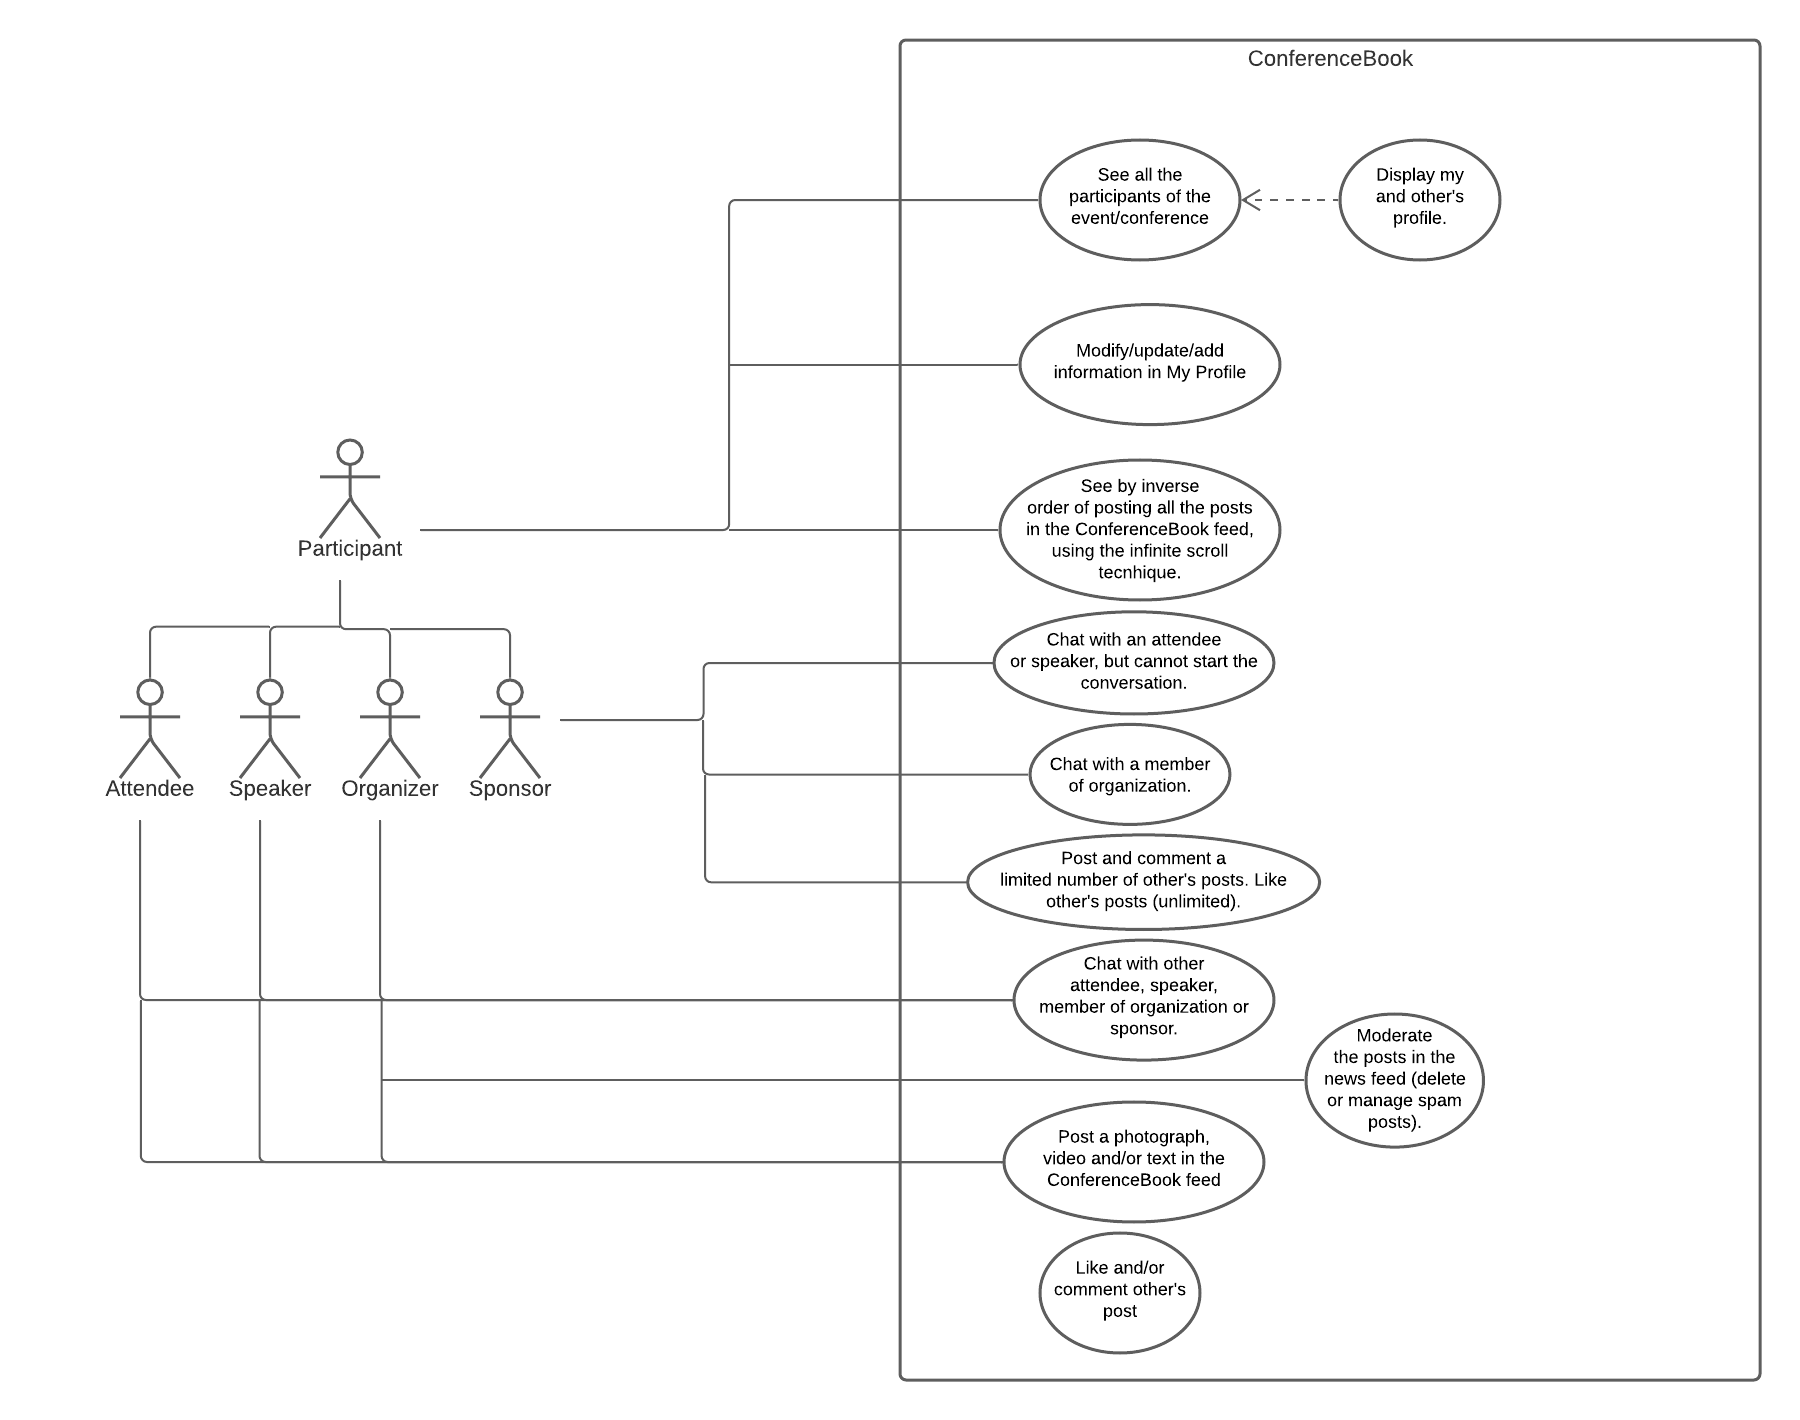
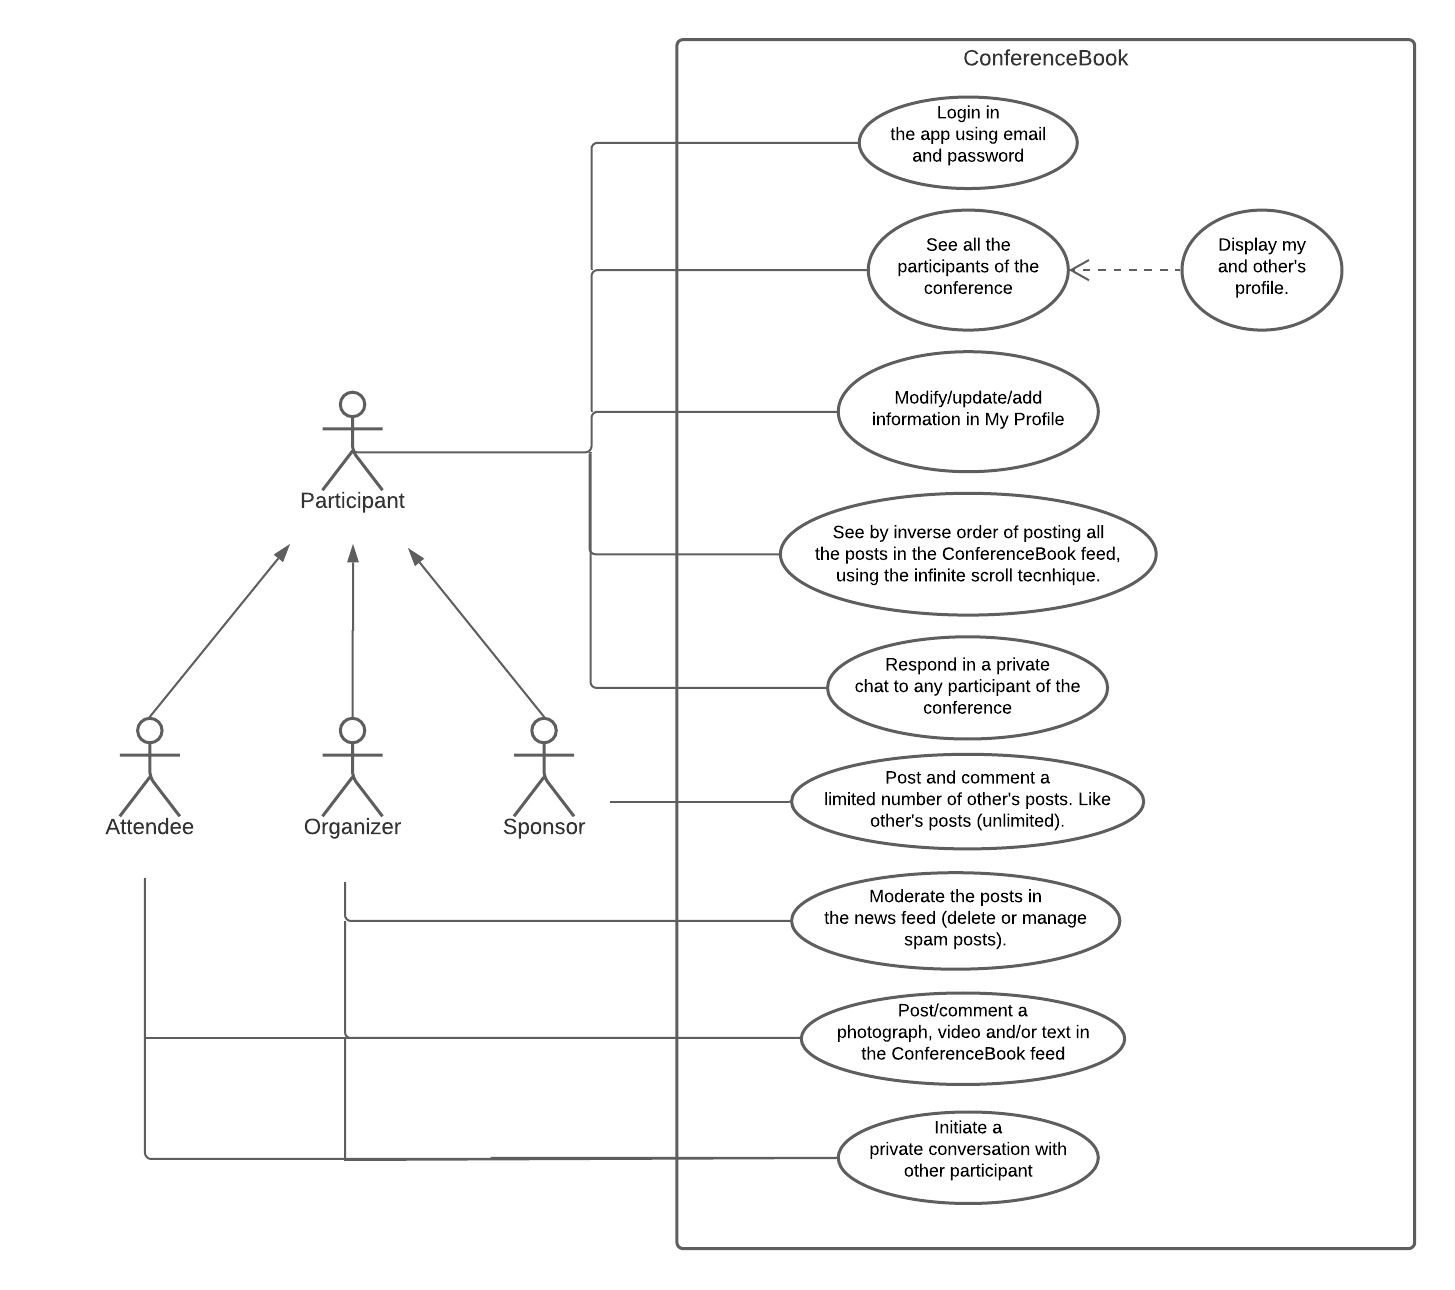
final version of use case diagram & user stories

diff --git a/docs/Development Report.md b/docs/Development Report.md
@@ -71,6 +71,8 @@ Start by contextualizing your module, describing the main concepts, terms, roles
 
 ### Use case diagram 
 
+![](https://i.imgur.com/6NKFsY4.png)
+
 <!---Create a use-case diagram in UML with all high-level use cases possibly addressed by your module.
 
 Give each use case a concise, results-oriented name. Use cases should reflect the tasks the user needs to be able to accomplish using the system. Include an action verb and a noun. 
@@ -108,27 +110,32 @@ For each user story you should write also the acceptance tests (textually in Ghe
 **Value and effort**.
 At the end, it is good to add a rough indication of the value of the user story to the customers (e.g. [MoSCoW](https://en.wikipedia.org/wiki/MoSCoW_method) method) and the team should add an estimation of the effort to implement it, for example, using t-shirt sizes (XS, S, M, L, XL). -->
 
+#### Participants
 
-#### Attendees and Speakers (hereby mentioned as participants)
+General role, including every participant in the conference, be it attendee, speaker, organizer or sponsor.
 
-This two roles will, in general, have the same actions, although each role will be explicitly identified for each conference.
-
-- As a conference participant, I want to chat in private with other participants, so that I can continue conversations that may have started elsewhere.
-
-- As a conference participant, I want to share my experience and express my opinion about the conference with all the other participants, so that conference networking becomes easier.
-    - As a conference participant, I want to post photos, videos and opinions in a way that everyone in the event can see it, so that I share my experience with all the participants. 
-    - As a conference participant, I want to comment on other participant's posts so that we can discuss meaningful topics.
+- As a conference participant, I want to login in the app using my email and password.
 
 - As a conference participant, I want to keep a personal profile so that other participants can know my basic information, according to what I provided.
-    - As a conference participant, I want to choose which information is displayed on my profile, namely small bio, soft and technical skills, previous experience and education so that I choose what to show other participants.
+    - As a conference participant, I want to choose which information is displayed on my profile, namely small bio, soft and technical skills, previous experience and education so that I choose what to show other users.
     - As a conference participant, I want to change my display name according to the conference I am attending so that it can be different according to its purpose.
     - As a conference participant, I want to insert the nickname of the rest of my social networks in my personal profile so that any participant can later contact me through other platforms.
     - As a conference participant, I want to choose whether or not I want to display my conference history so that other participants can/can't see which conferences I previously attended.
     - As a conference participant, I want to update my personal profile whenever I please, changing the information that was entered when I first signed in, so that I can keep my basic information updated.
-    
+
 - As a conference participant, I want to see the list of all the conference participants, so that I can know who is also attending the conference.
     - As a conference participant, I want to access every participants personal profile so that I can see their basic information.
     - As a conference participant, I want to search in the list of all the conference participants for a specific name, so that I can easily find someone that I am looking for.
+
+#### Attendees (including speakers)
+
+This role includes both attendees or speakers of the conference, since they will have the same funcionalities while using the app.
+
+- As a conference attendee, I want to chat in private with other participants, so that I can continue conversations that may have started elsewhere.
+
+- As a conference attendee, I want to share my experience and express my opinion about the conference with all the other participants, so that conference networking becomes easier.
+    - As a conference attendee, I want to post photos, videos and opinions in a way that everyone in the event can see it, so that I share my experience with all the participants. 
+    - As a conference attendee, I want to comment on other participant's posts so that we can discuss meaningful topics.
 
 #### Organizers
 
